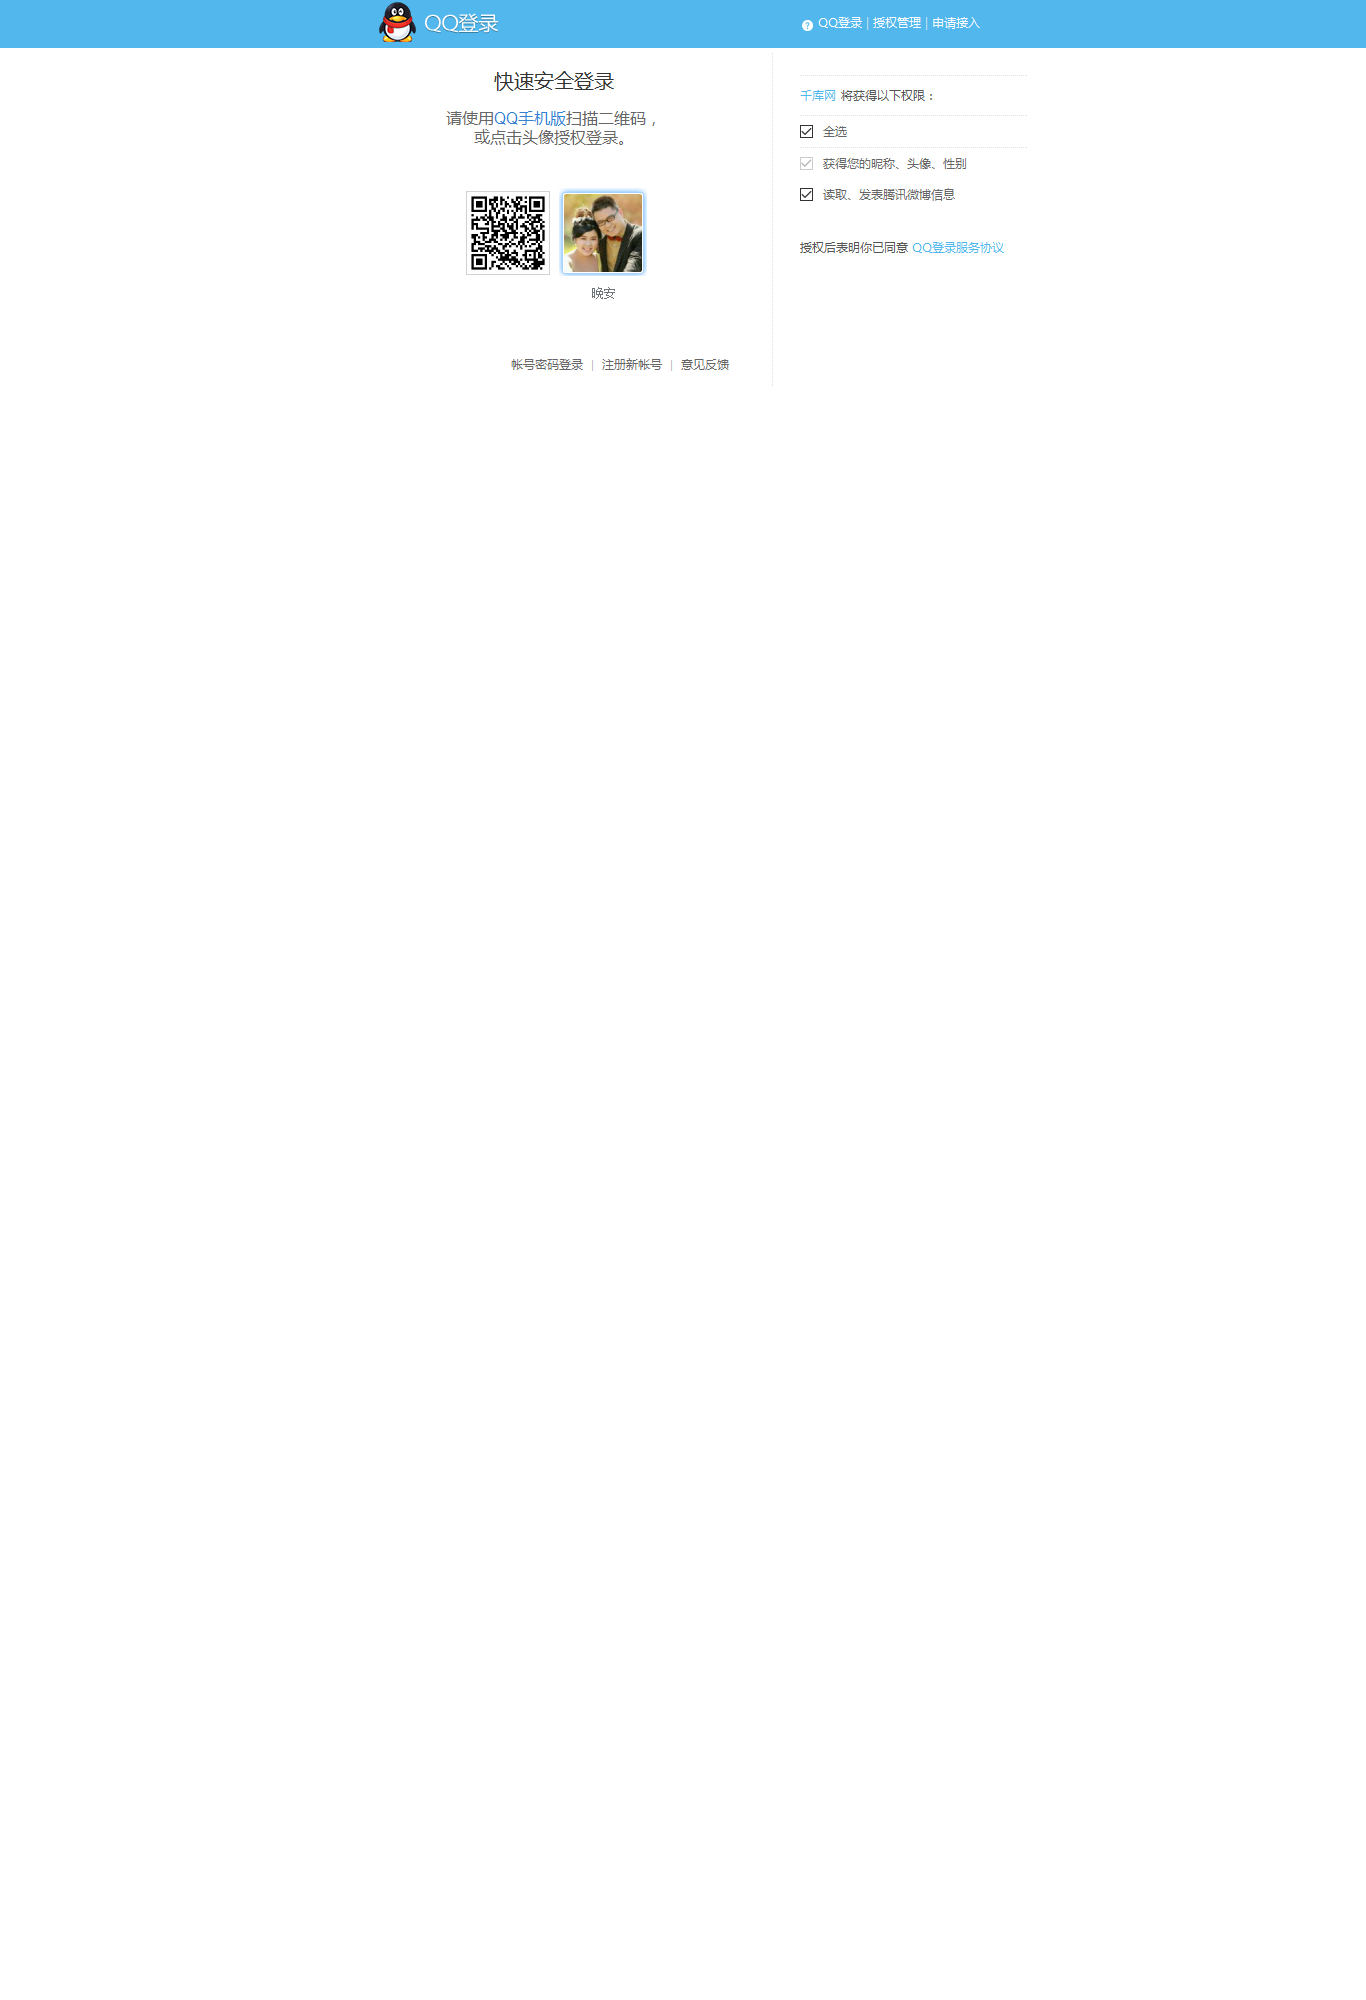
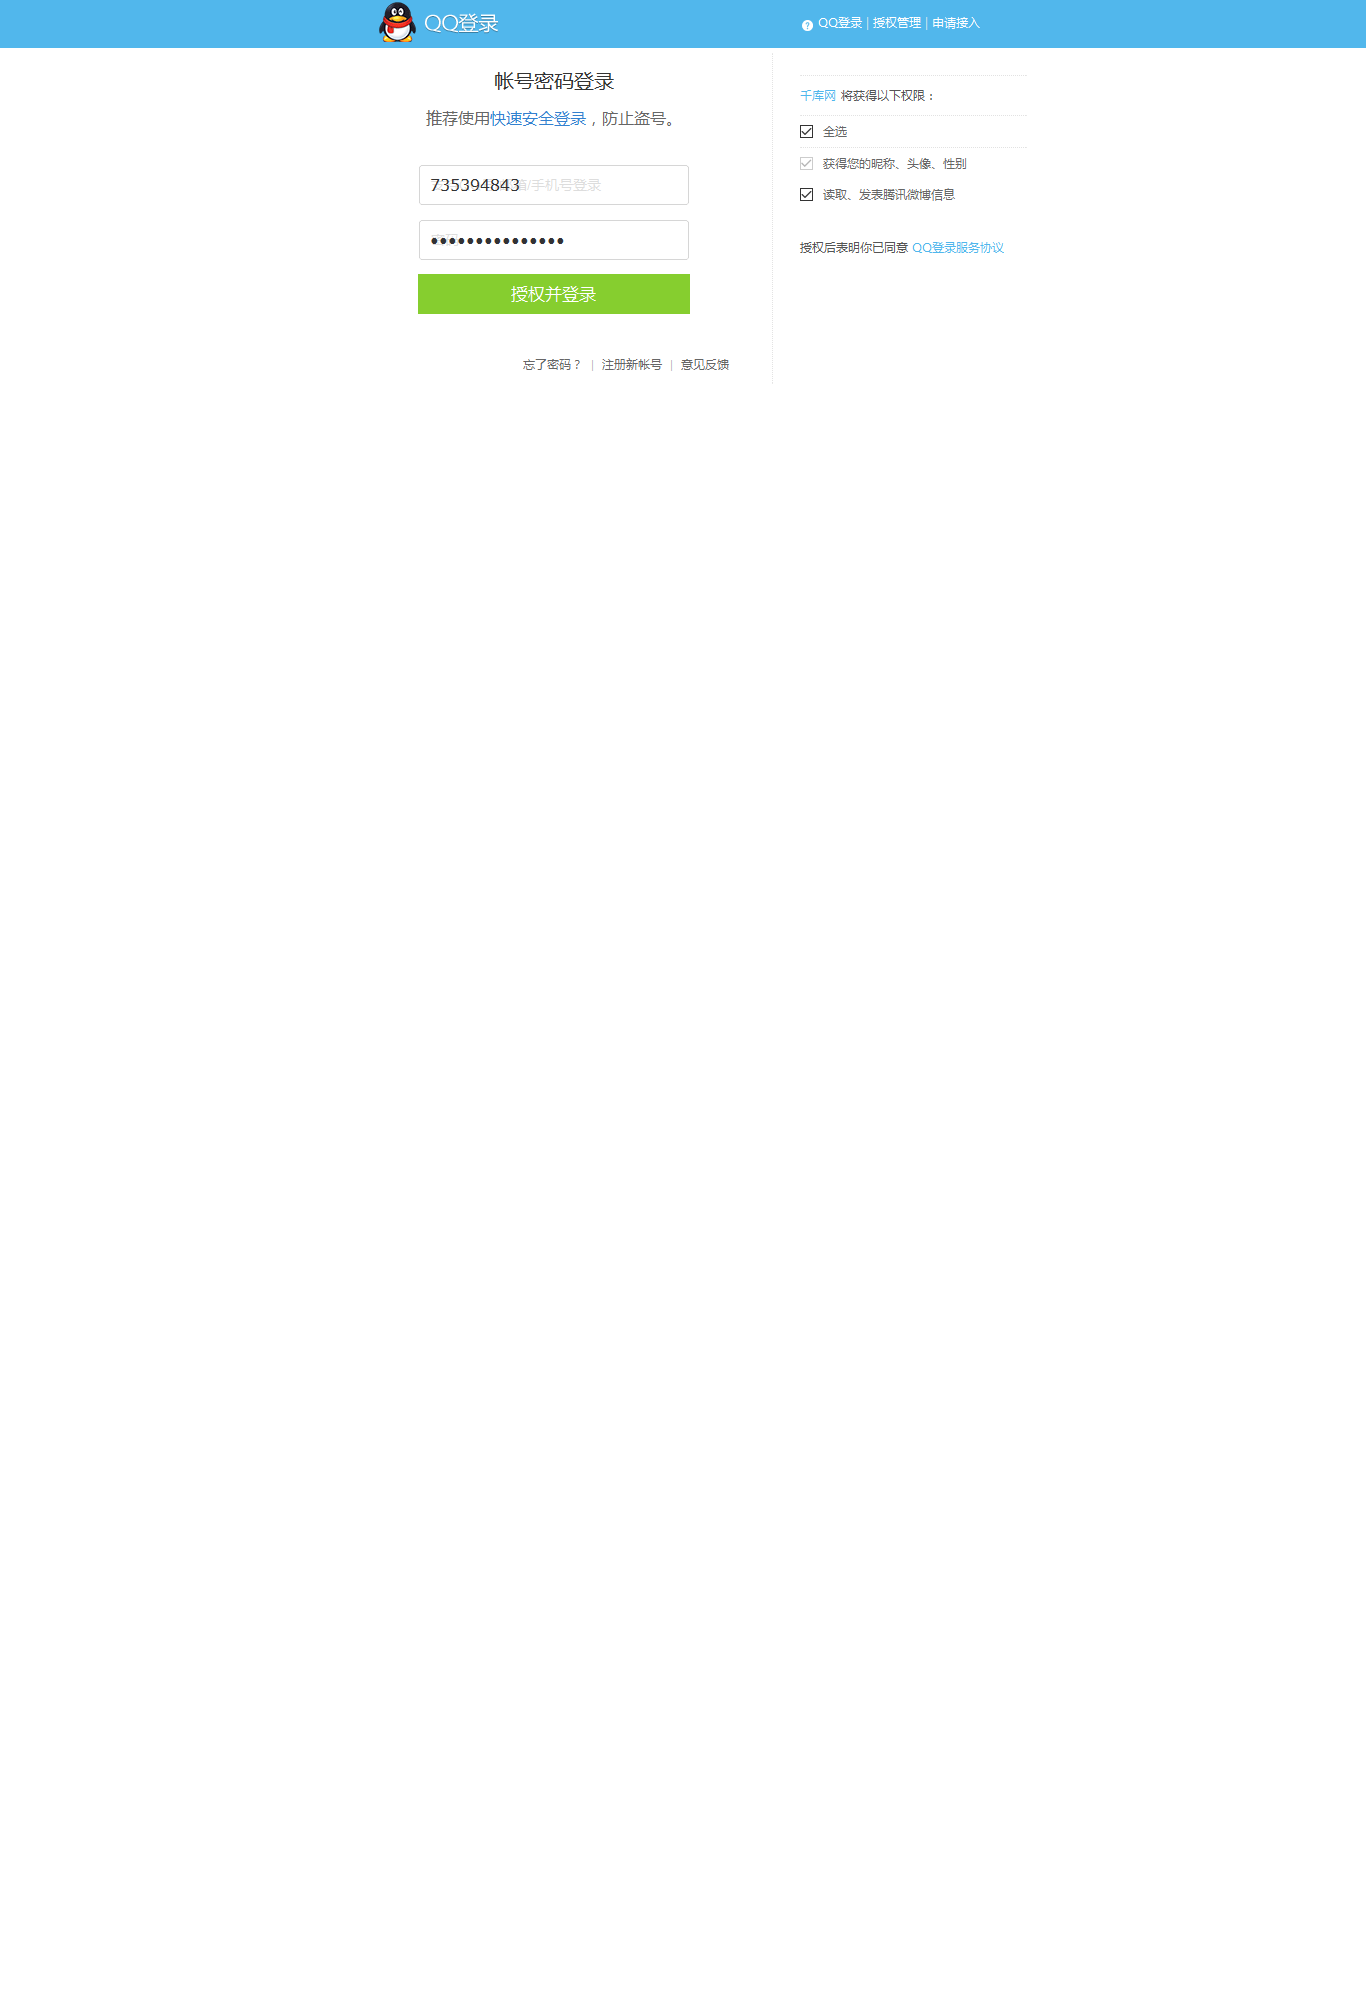
a

Changed region(s): [[0.3075, 0.031, 0.5227, 0.186]]

diff --git a/qiankuwang.js b/qiankuwang.js
@@ -16,22 +16,29 @@ var user = casper.cli.args[0],
 	pwd = casper.cli.args[1];
 
 casper.start('http://588ku.com/index.php?m=login&a=snsLogin&type=qq&source=').viewport(1366, 2000).then(function(){
-	this.capture('1.png');
-	this.page.switchToChildFrame(0);
+
+});
+casper.withFrame(0,function(){
 	this.echo('login...');
 	this.click('#switcher_plogin');//切换
 	this.wait(1000);
+});
+casper.withFrame(0,function(){
 	this.fillSelectors('form#loginform',{
 		'#u' : user,
 		'#p' : pwd
 	});
 	this.wait(1000);
+});
+casper.withFrame(0,function(){
+	this.capture('1.png');
 	this.click('form#loginform input[type="submit"]');
 	this.capture('2.png');
+	this.wait(1000);
+	this.capture('3.png');
 	this.wait(10000);
-	this.capture('21.png');
-	this.capture('22.png')
 });
+
 
 
 casper.thenOpen(url,function(){
